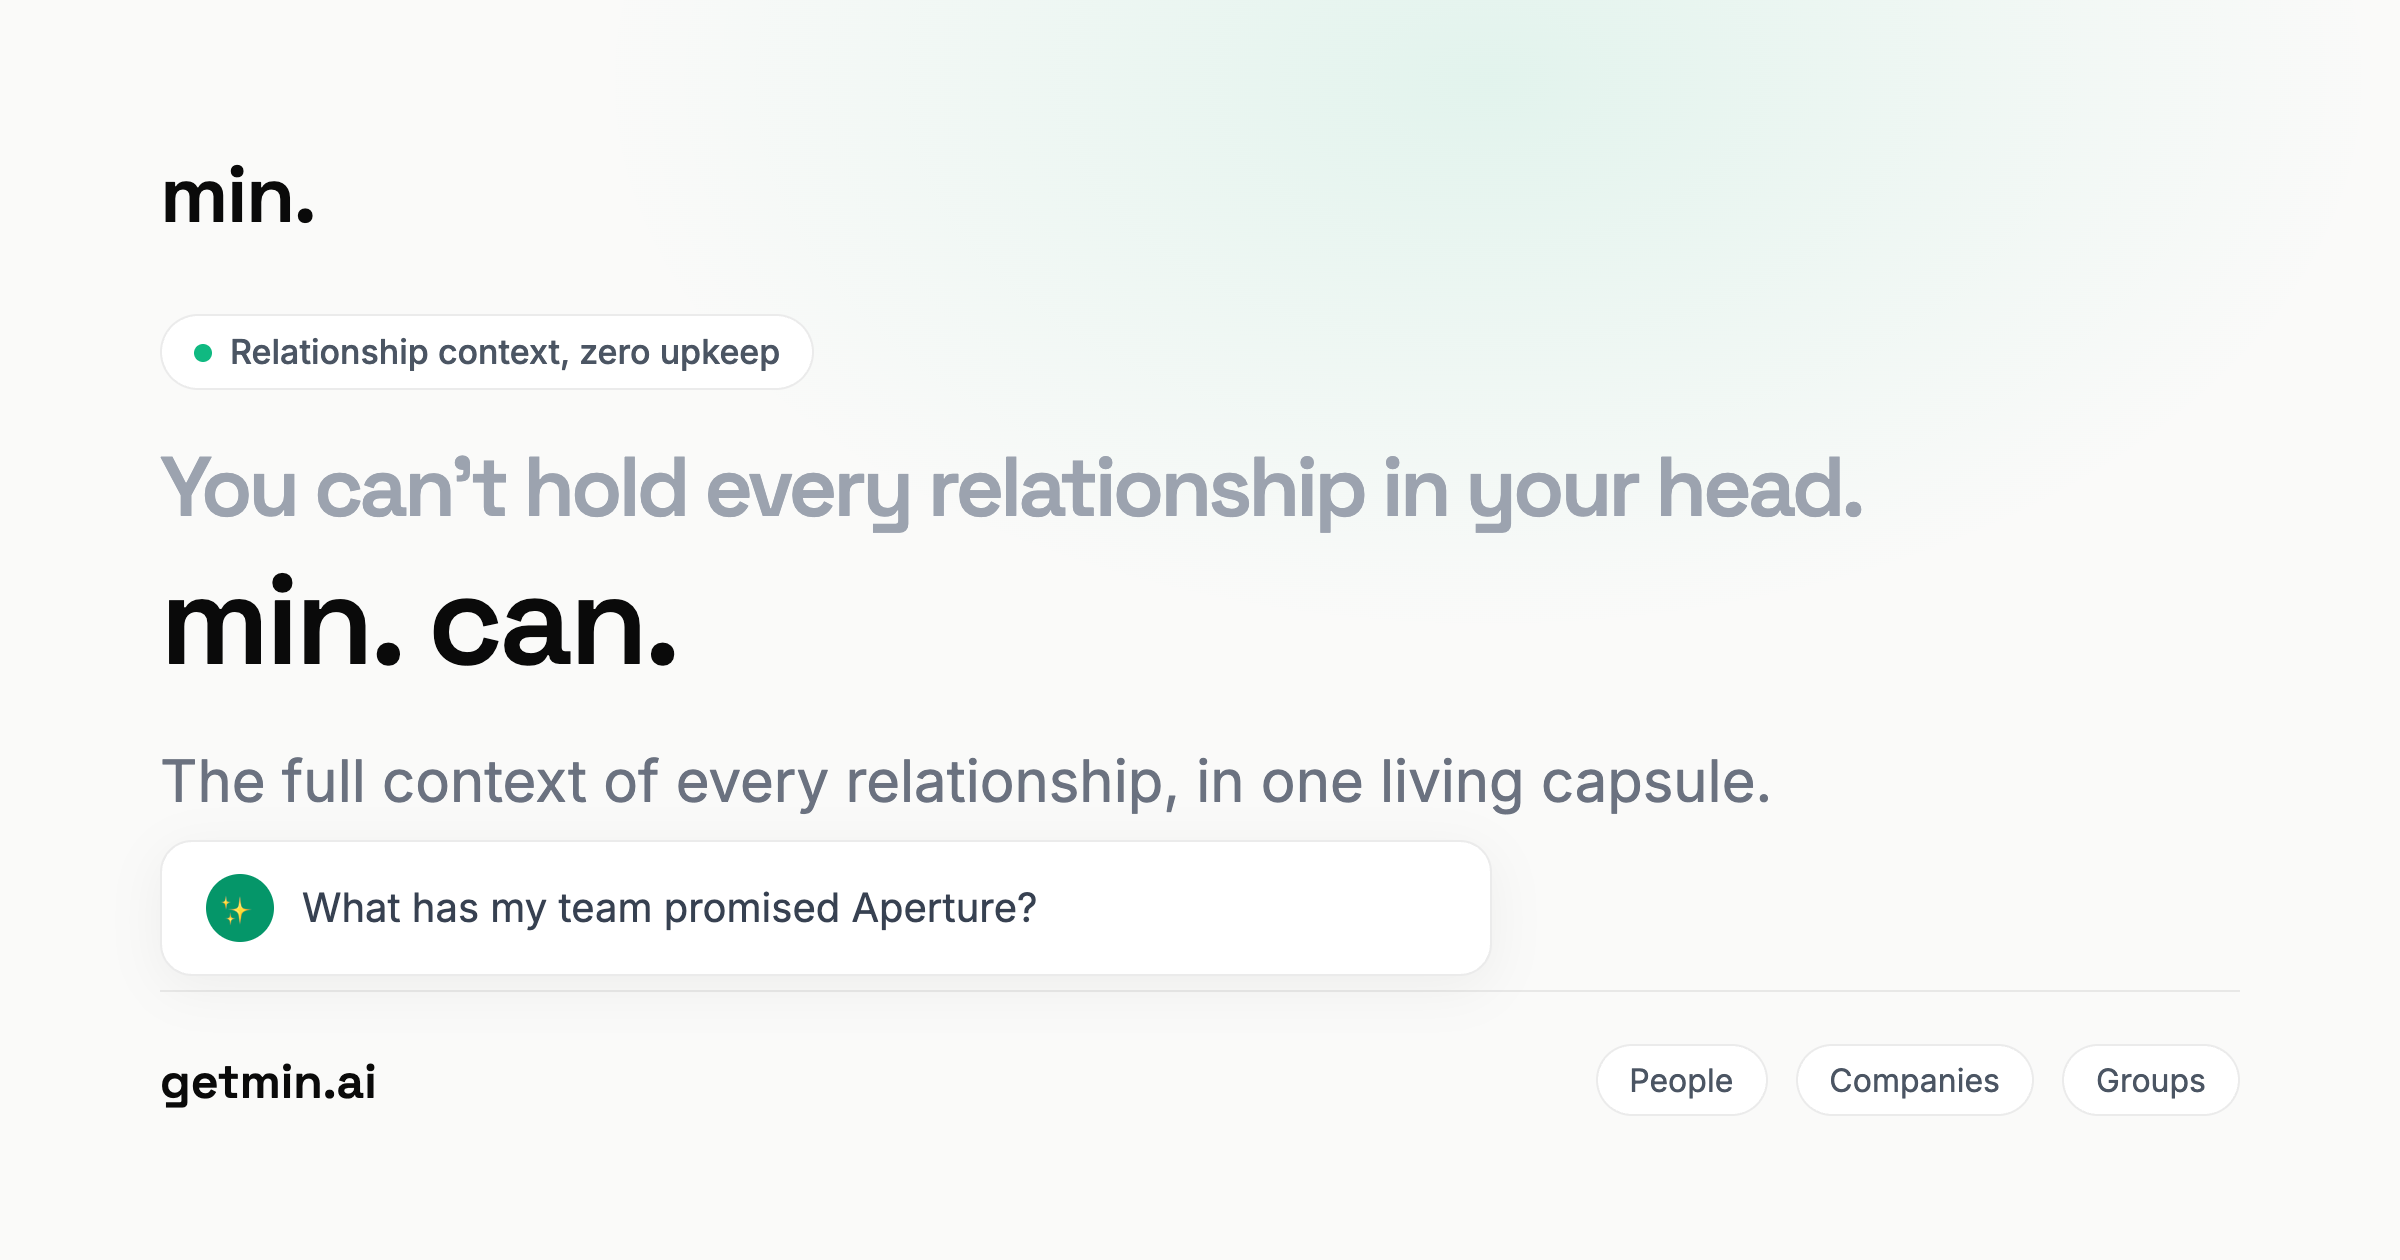
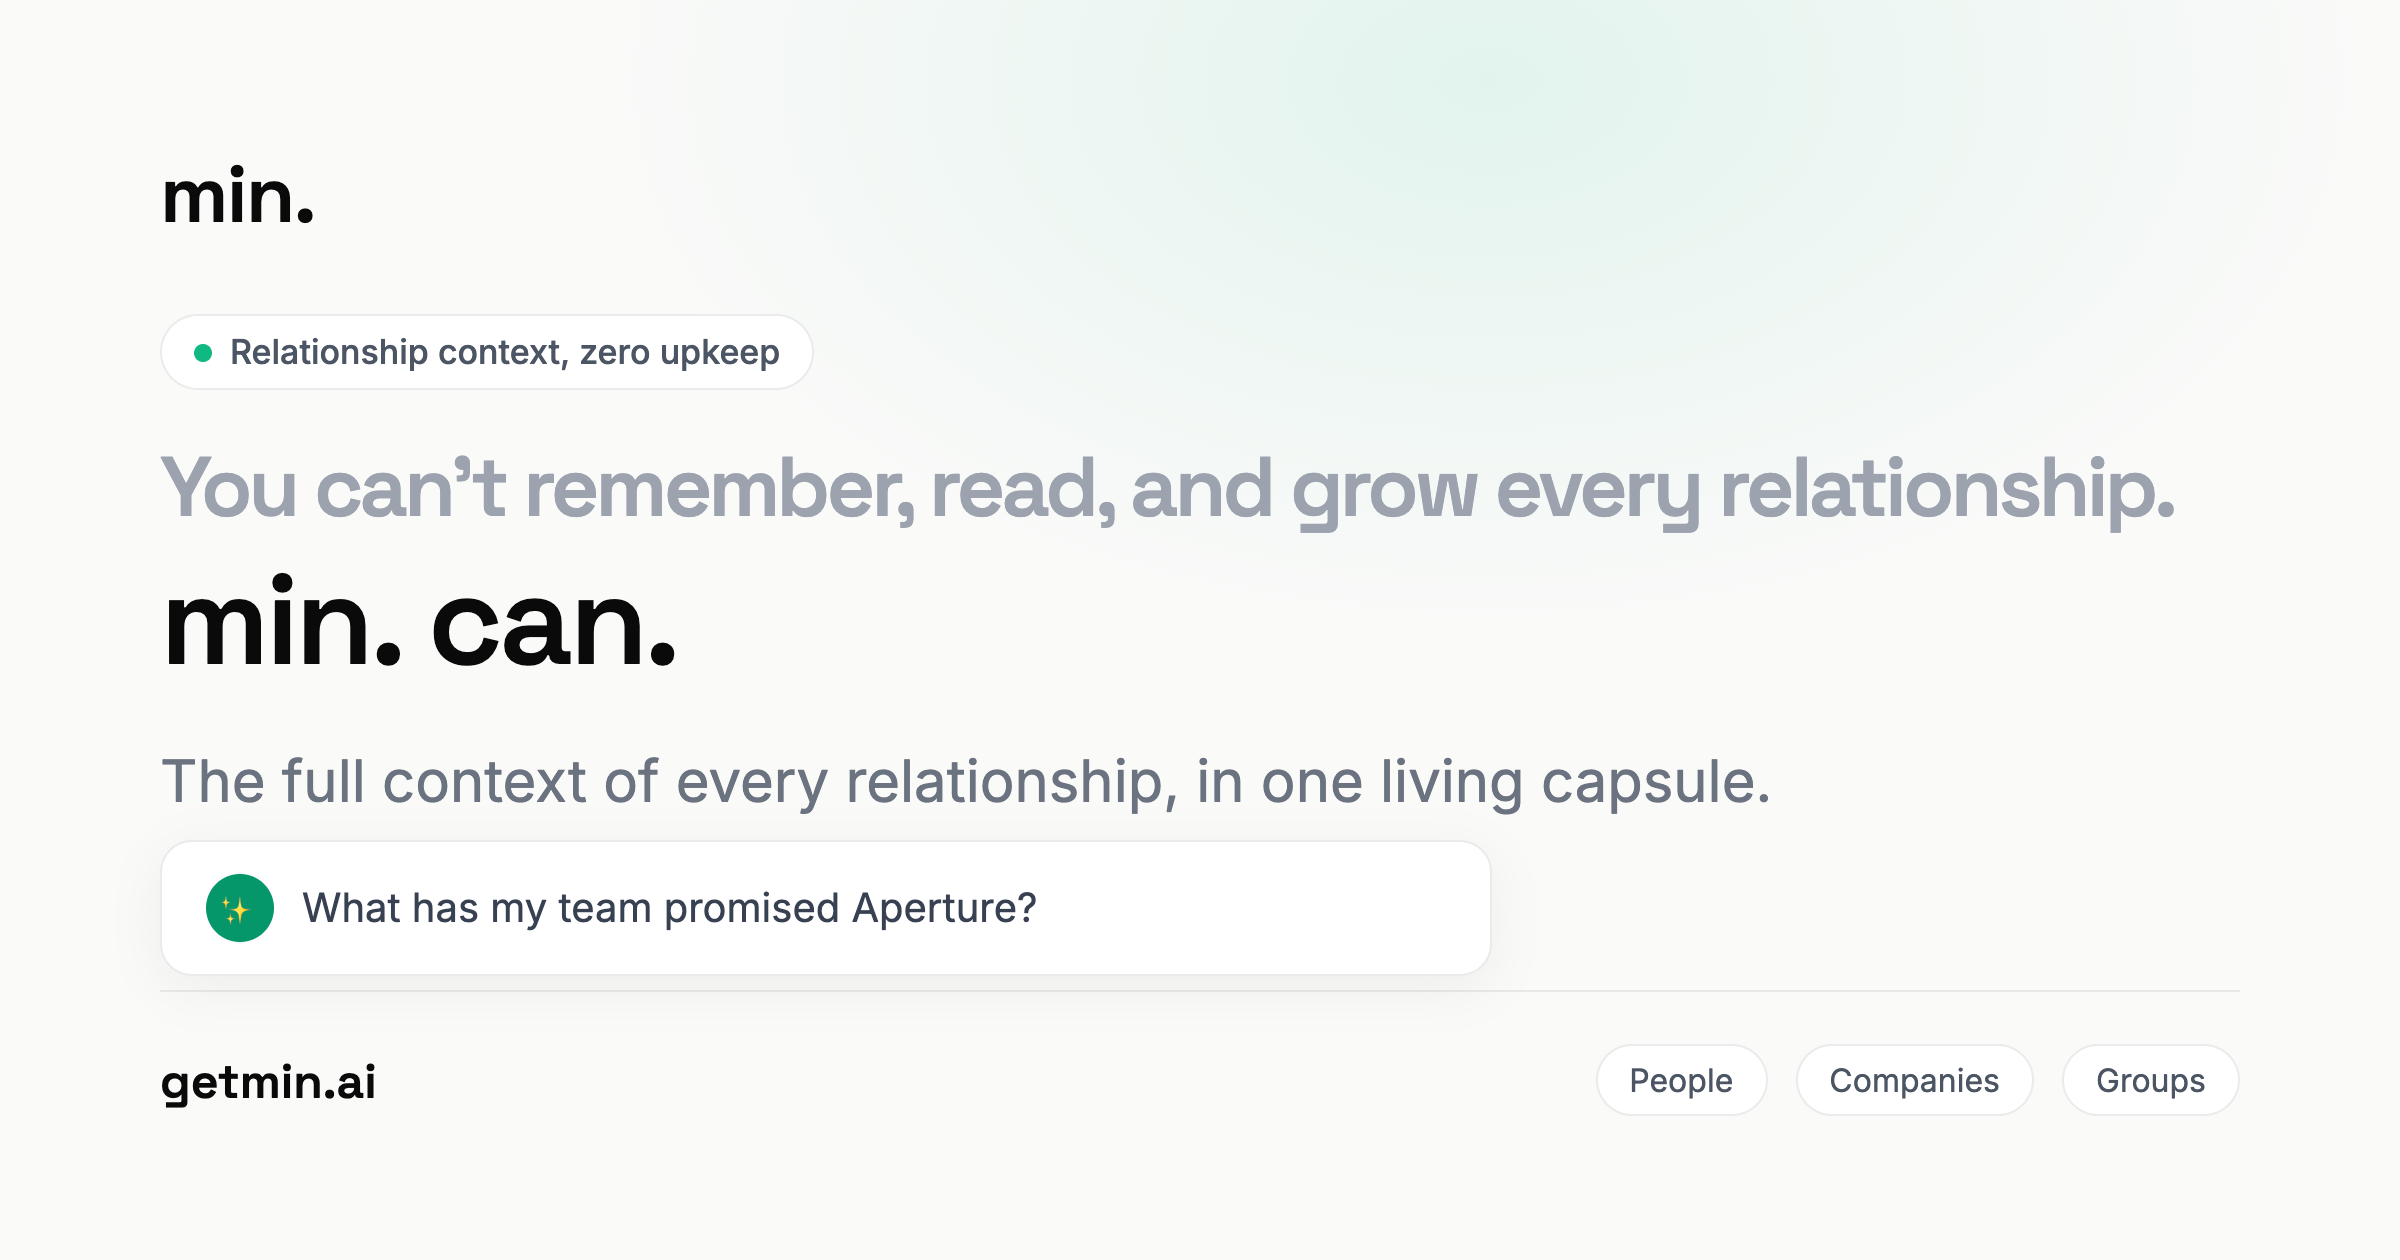
Hero: three verbs, not storage
"Hold every relationship" claimed the CRM's job, storage, when min.'s
value is intelligence and interaction. The muted line now names what no
human (and no CRM) can do: "You can't remember, read, and grow every
relationship. min. can." The verbs are the value stack: remember (memory),
read (intelligence), grow (outcome). OG image re-rendered to match.

Changed region(s): [[0.2188, 0.3405, 0.9062, 0.4333]]

diff --git a/public/og-image.html b/public/og-image.html
@@ -149,7 +149,7 @@
                 <div class="logo">min.</div>
                 <div class="badge"><span class="badge-dot"></span>Relationship context, zero upkeep</div>
                 <div class="headline">
-                    <span class="muted">You can't hold every relationship in your head.</span>
+                    <span class="muted">You can't remember, read, and grow every relationship.</span>
                     min. can.
                 </div>
                 <div class="subheadline">

diff --git a/src/components/landing/LandingHero.tsx b/src/components/landing/LandingHero.tsx
@@ -23,7 +23,7 @@ export default function LandingHero() {
           <FadeIn delay={0.1}>
             <h1 className="font-display text-[2.6rem] font-semibold leading-[1.08] tracking-tight text-gray-900 sm:text-5xl md:text-6xl">
               <span className="text-gray-400">
-                You can't hold every relationship in your head.
+                You can't remember, read, and grow every relationship.
               </span>
               <br /> min. can.
             </h1>
